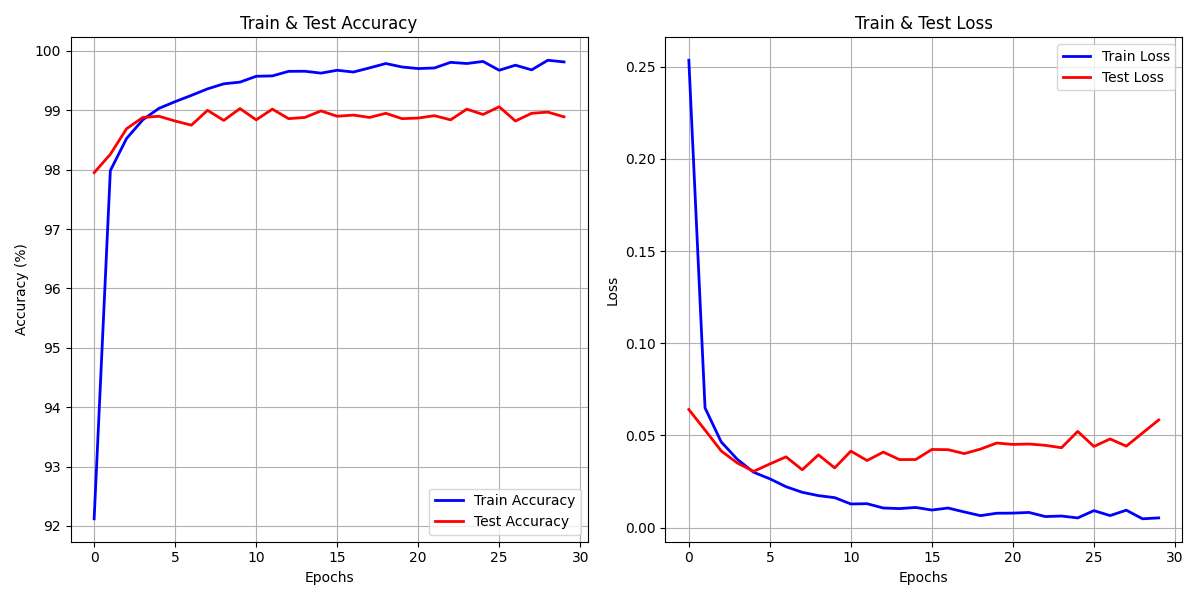
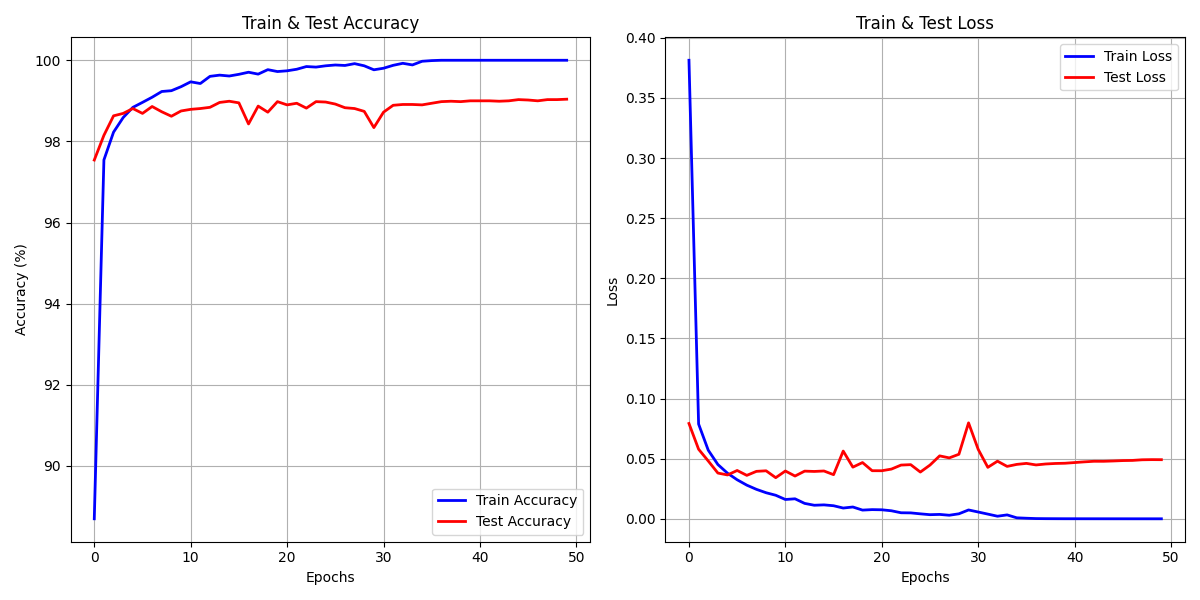
Update README

diff --git a/main.py b/main.py
@@ -209,14 +209,15 @@ def main():
     LeNet = LeNet5(n_classes=10).cuda()
     Custom_model = CustomMLP(n_classes=10).cuda()
     print(f'The number of LeNet5 parameters: {count_parameters(LeNet)}')
-    print(f'The number of LeNet5 parameters: {count_parameters(Custom_model)}')
+    print(f'The number of Custom_model parameters: {count_parameters(Custom_model)}')
 
     # Cost function & Optimizer
     criterion = torch.nn.CrossEntropyLoss()
     LeNet_optimizer = torch.optim.SGD(LeNet.parameters(), lr=0.01, momentum=0.9)
     Custom_model_optimizer = torch.optim.SGD(Custom_model.parameters(), lr=0.01, momentum=0.9)
 
-    # LeNet5 train & test
+    # # LeNet5 train & test
+    print('============LeNet5 train & test Start============')
     LeNet5_train_loss_history, LeNet5_train_acc_history = [], []
     LeNet5_test_loss_history, LeNet5_test_acc_history = [], []
     for epoch in range(EPOCH):
@@ -228,9 +229,10 @@ def main():
         LeNet5_train_acc_history.append(trn_acc)
         LeNet5_test_loss_history.append(test_loss)
         LeNet5_test_acc_history.append(test_acc)
-    loss_acc_plot('./plot/LeNet5_train_test_plot', LeNet5_train_acc_history, LeNet5_train_loss_history, LeNet5_test_acc_history, LeNet5_test_loss_history)
+    loss_acc_plot('./plot/LeNet5_train_test_plot_tanh', LeNet5_train_acc_history, LeNet5_train_loss_history, LeNet5_test_acc_history, LeNet5_test_loss_history)
     
     # Custom model train & test
+    print('============CustomMLP train & test Start============')
     Custom_model_train_loss_history, Custom_model_train_acc_history = [], []
     Custom_model_test_loss_history, Custom_model_test_acc_history = [], []
     for epoch in range(EPOCH):
@@ -242,9 +244,10 @@ def main():
         Custom_model_train_acc_history.append(trn_acc)
         Custom_model_test_loss_history.append(test_loss)
         Custom_model_test_acc_history.append(test_acc)
-    loss_acc_plot('./plot/Custom_model_train_test_plot', Custom_model_train_acc_history, Custom_model_train_loss_history, Custom_model_test_acc_history, Custom_model_test_loss_history)
+    loss_acc_plot('./plot/Custom_model_train_test_plot_tanh', Custom_model_train_acc_history, Custom_model_train_loss_history, Custom_model_test_acc_history, Custom_model_test_loss_history)
 
-    plot_test_comparison( './plot/test_performance_comparison.png', LeNet5_test_acc_history, LeNet5_test_loss_history, Custom_model_test_acc_history, Custom_model_test_loss_history)
+    plot_test_comparison( './plot/test_performance_comparison_tanh.png', LeNet5_test_acc_history, LeNet5_test_loss_history, Custom_model_test_acc_history, Custom_model_test_loss_history)
+
 
     print('='*40)
 

diff --git a/dataset.py b/dataset.py
@@ -33,11 +33,12 @@ class MNIST(Dataset):
         if augmentation:
             self.transform = transforms.Compose([
                 transforms.Resize((32, 32)),
+                transforms.RandomAffine(
+                degrees=0.15,
+                translate=(0.1, 0.1)
+                ),
                 transforms.ToTensor(),
-                transforms.Normalize((0.1307,), (0.3081,)),
-                transforms.RandomRotation(degrees=0.3),
-                transforms.RandomAffine(degrees=10, translate=(0.1, 0.1), scale=(0.9, 1.1)),
-                transforms.ColorJitter(brightness=0.2, contrast=0.2)
+                transforms.Normalize((0.1307,), (0.3081,))
             ])
         else:
             # Substract mean of 0.1307, dive by std 0.3081
